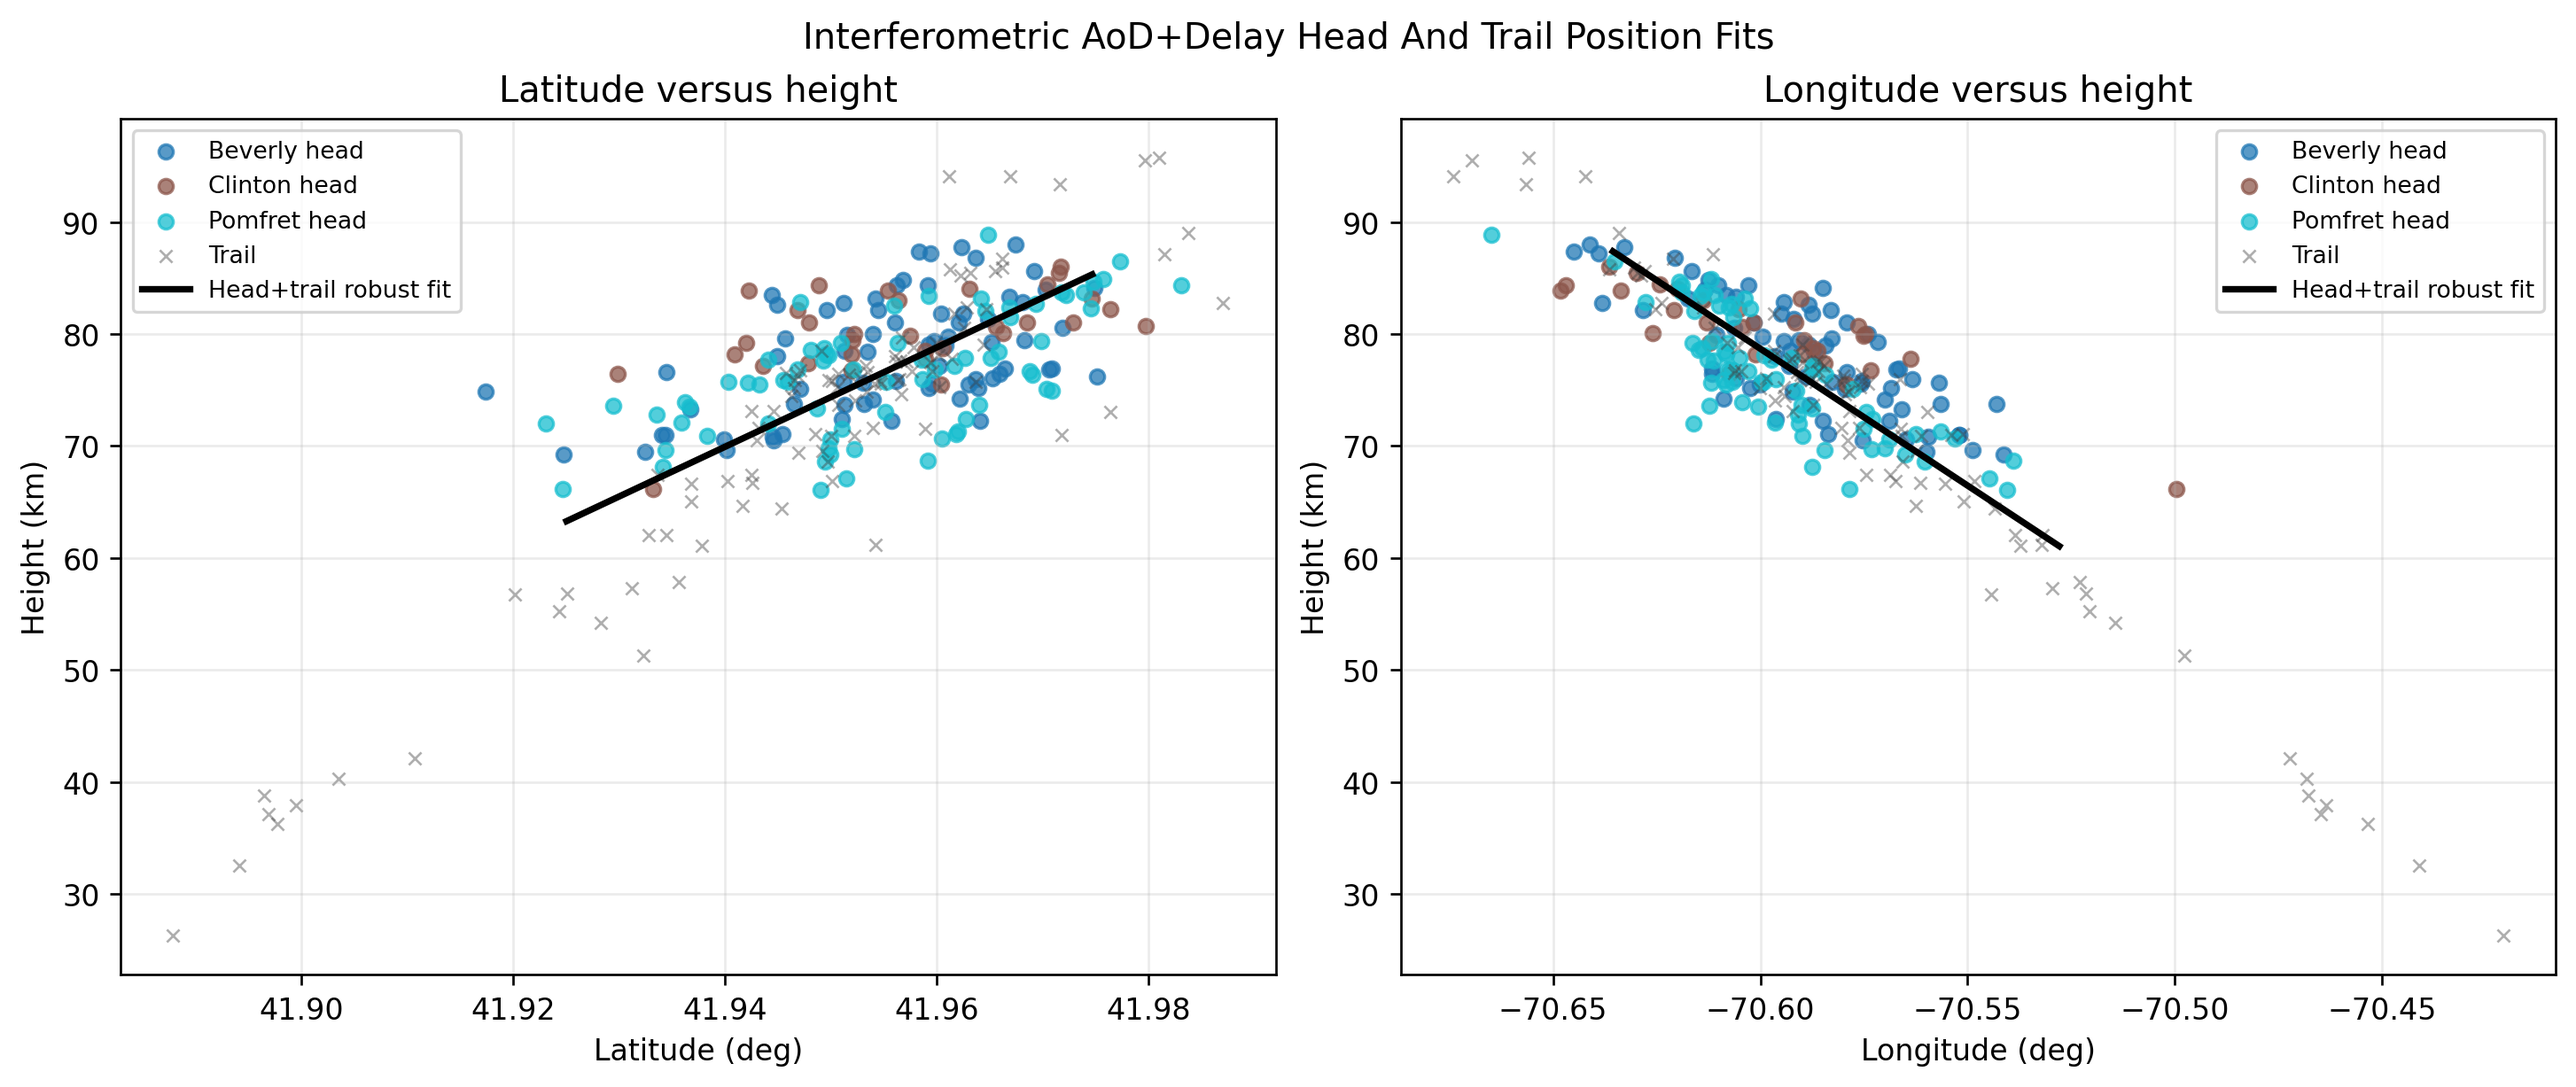
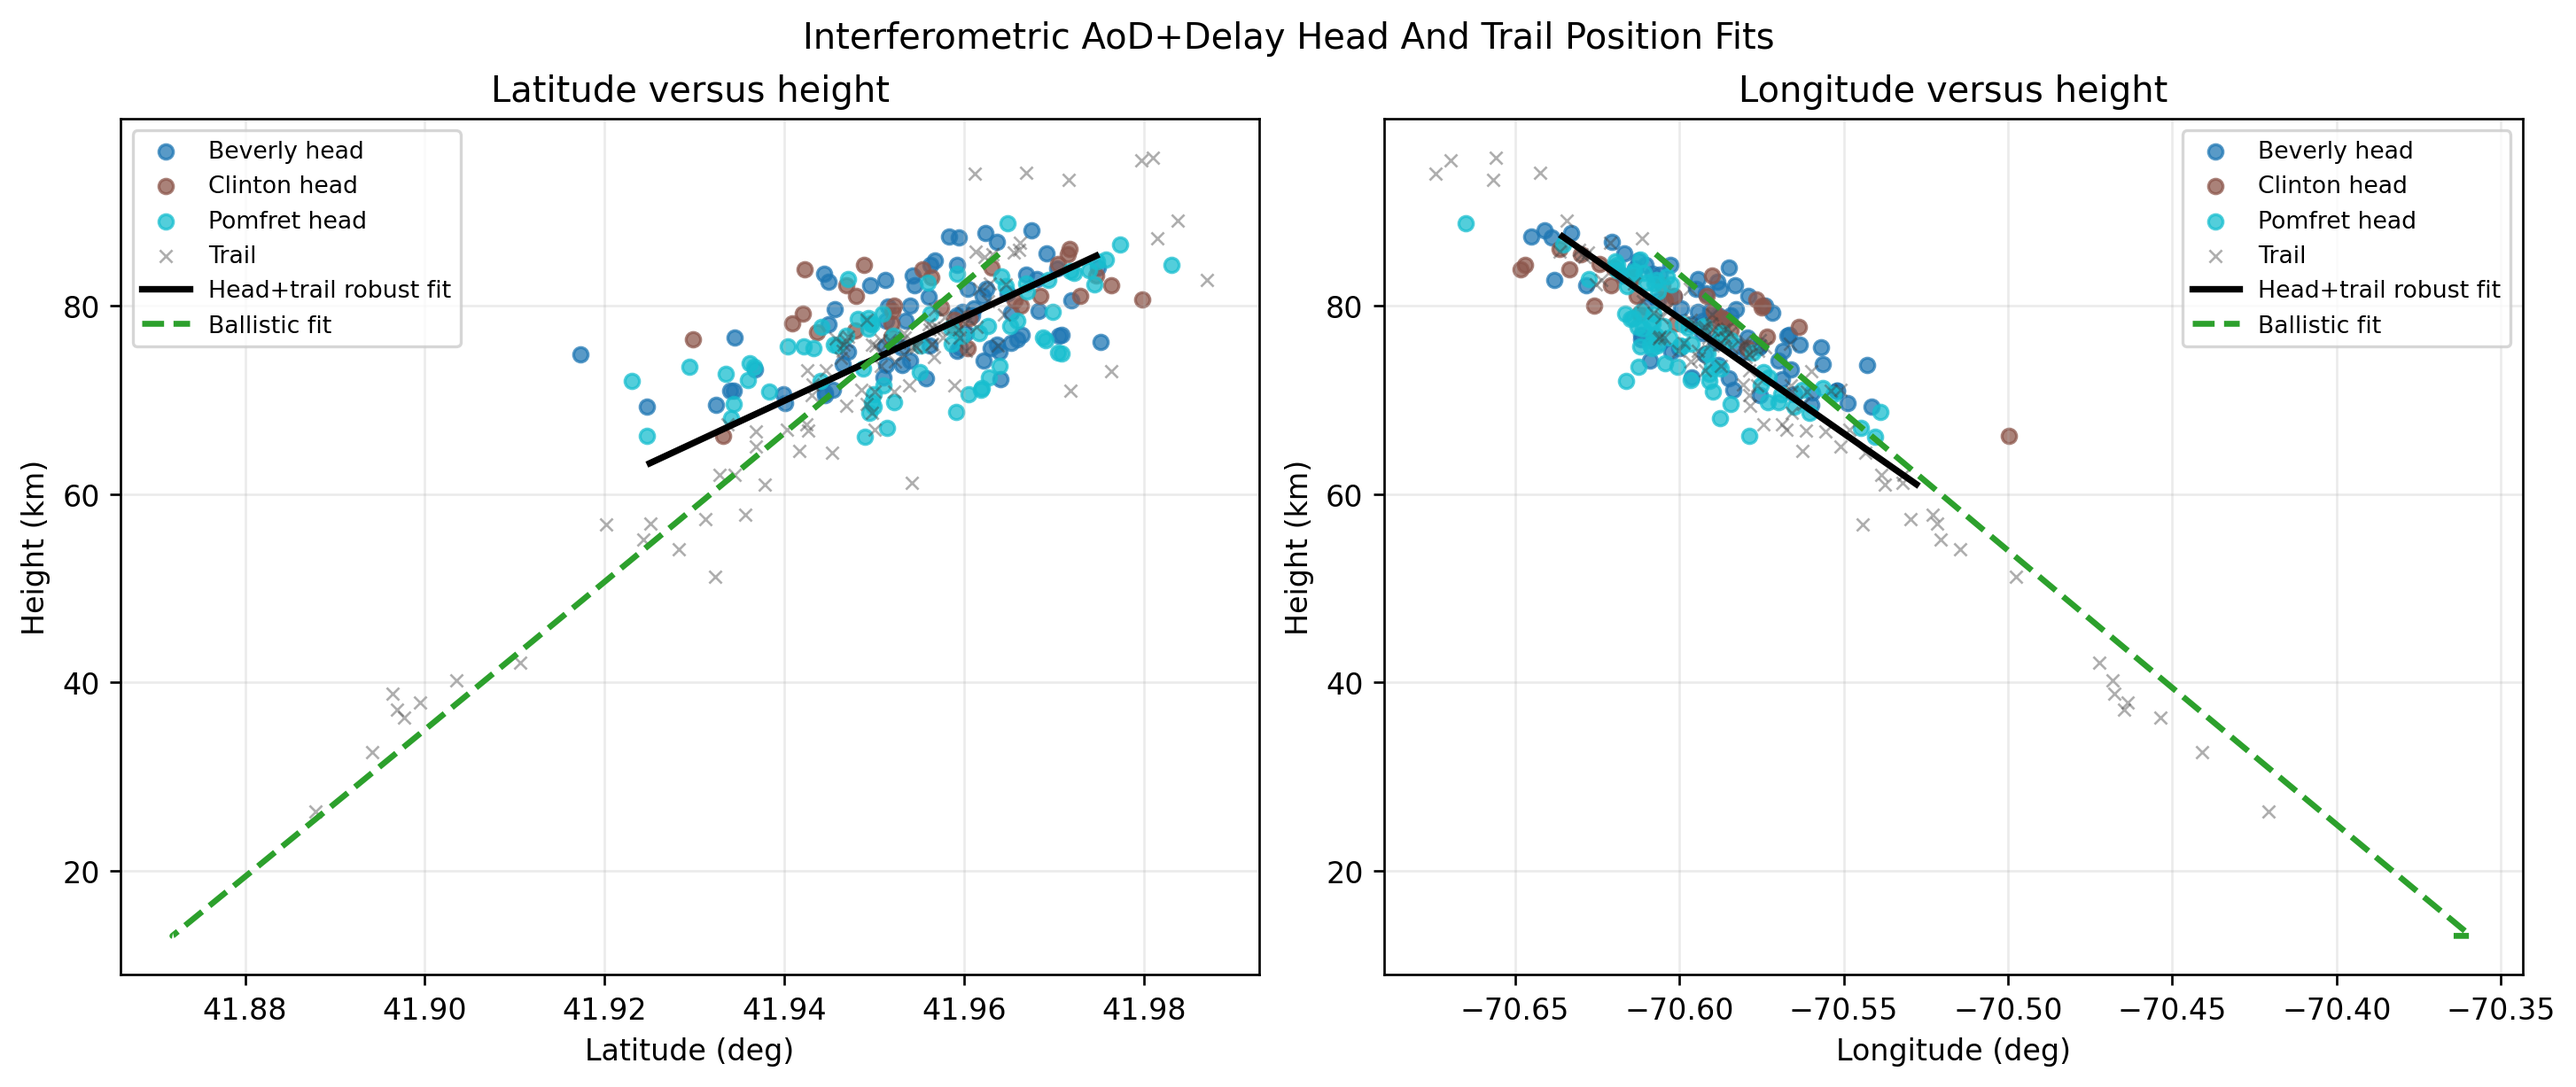
Add ballistic line to AoD comparison figure

diff --git a/aod_position_from_merged.py b/aod_position_from_merged.py
@@ -486,7 +486,7 @@ def plot_map(rows, fit, sites, tx_ecef, rot, line_fit, out_png, uncertainty_samp
     plt.close(fig)
 
 
-def plot_appendix_comparison(rows, trail_rows, fit, tx_ecef, rot, line_fit, combined_line_fit, summary, out_png):
+def plot_appendix_comparison(rows, trail_rows, fit, tx_ecef, rot, line_fit, combined_line_fit, summary, out_png, ballistic_fit=None):
     rows = figure_geo_filtered(rows)
     trail_rows = figure_geo_filtered(trail_rows)
     fit_rows = rows + trail_rows
@@ -512,6 +512,12 @@ def plot_appendix_comparison(rows, trail_rows, fit, tx_ecef, rot, line_fit, comb
 
     lat_fit = robust_line_fit(lat, height_km)
     lon_fit = robust_line_fit(lon, height_km)
+    ballistic_llh = None
+    if ballistic_fit is not None:
+        t = np.array([r["unix_time"] for r in fit_rows], dtype=float)
+        t_grid = np.linspace(float(np.nanmin(t)), float(np.nanmax(t)), 240)
+        ballistic_enu = np.array([model_fit_enu(ballistic_fit, ti) for ti in t_grid])
+        _, ballistic_llh = enu_series_to_geodetic(tx_ecef, rot, ballistic_enu)
 
     stations = sorted(set(r["station"] for r in rows))
     colors = dict(zip(stations, plt.cm.tab10(np.linspace(0, 1, len(stations)))))
@@ -531,6 +537,10 @@ def plot_appendix_comparison(rows, trail_rows, fit, tx_ecef, rot, line_fit, comb
         x_min, x_max = np.nanpercentile(x_all, [5.0, 95.0])
         x_grid = np.linspace(float(x_min), float(x_max), 240)
         ax.plot(x_grid, fit_coef[0] * x_grid + fit_coef[1], color="k", lw=2.2, label="Head+trail robust fit")
+        if ballistic_llh is not None:
+            bx = ballistic_llh[:, 0] if x_name == "lat" else ballistic_llh[:, 1]
+            by = ballistic_llh[:, 2] / 1000.0
+            ax.plot(bx, by, "--", color="C2", lw=2.0, label="Ballistic fit")
         ax.set_xlabel(xlabel)
         ax.set_ylabel("Height (km)")
         ax.grid(alpha=0.25)
@@ -925,6 +935,7 @@ def main():
         combined_line_fit,
         summary,
         args.report_fig,
+        ballistic_fit=fit,
     )
     write_report_summary(summary, args.report_tex, fit=reference_fit)
 
